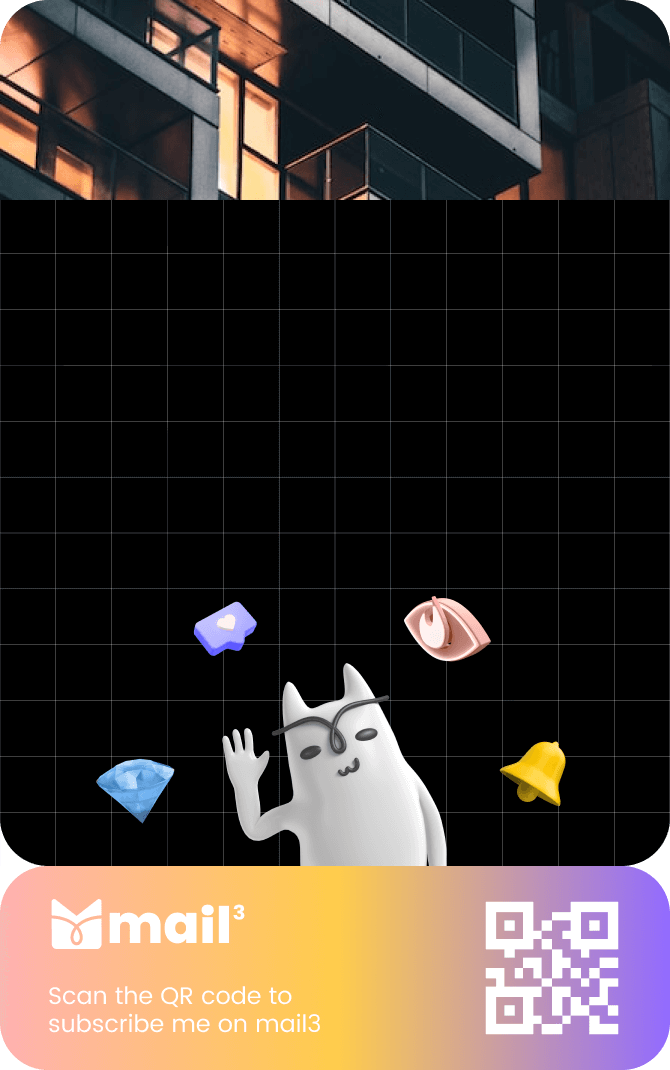
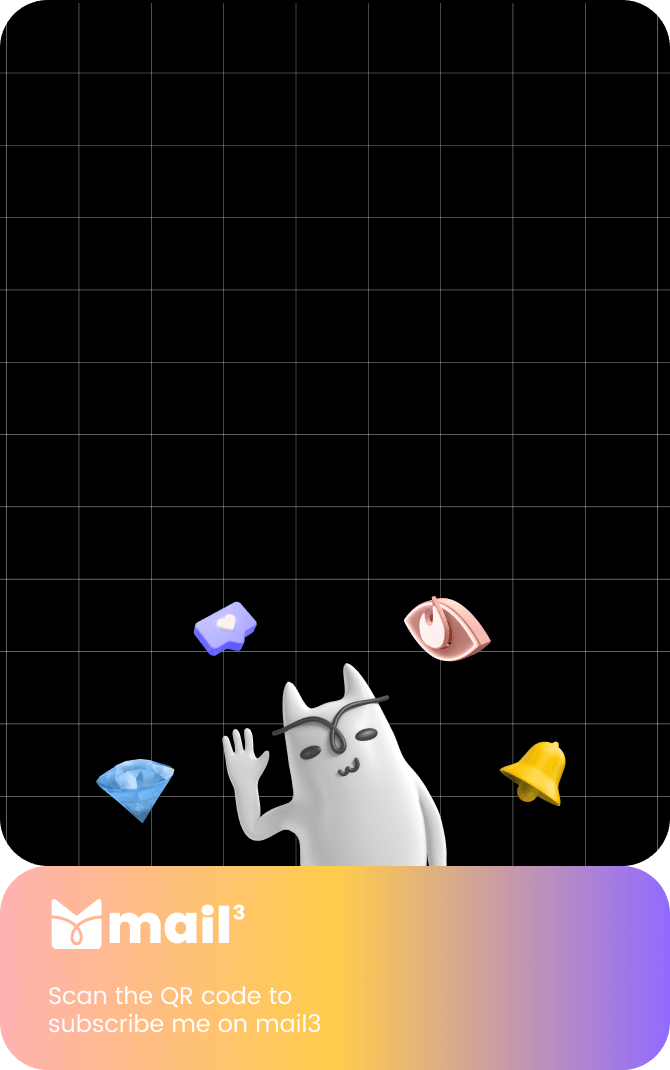
fix: modify subscribe card

diff --git a/apps/community/src/pages/information.tsx b/apps/community/src/pages/information.tsx
@@ -11,7 +11,6 @@ import {
   Heading,
   HStack,
   Icon,
-  Image,
   Input,
   Link,
   Switch,
@@ -120,10 +119,9 @@ export const Information: React.FC = () => {
   const userInfo = useUserInfo()
   const setUserInfo = useSetUserInfo()
   const toast = useToast()
-  const [currentAvatar, setCurrentAvatar] = useState<string | undefined>(
-    undefined
-  )
+
   const [bannerUrl, setBannerUrl] = useState(BannerPng)
+  const [bannerUrlOnline, setBannerUrlOnline] = useState(BannerPng)
   const [description, setDescription] = useState('')
   const [itemsLink, setItemsLink] = useState('')
   const [mmbState, setMmbState] = useState(true)
@@ -135,7 +133,7 @@ export const Information: React.FC = () => {
   const cardRef = useRef<HTMLDivElement>(null)
   const qrcodeRef = useRef<HTMLDivElement>(null)
   const onUpdateTipsPanel = useUpdateTipsPanel()
-  const { takeScreenshot, downloadScreenshot } = useScreenshot()
+  const { downloadScreenshot } = useScreenshot()
 
   const { data: userInfoData } = useQuery(
     [QueryKey.GetUserInfo],
@@ -150,7 +148,7 @@ export const Information: React.FC = () => {
     }
   )
 
-  useQuery(
+  const { isLoading } = useQuery(
     ['userSetting', account],
     async () => {
       const res = await api.getUserSetting()
@@ -164,23 +162,11 @@ export const Information: React.FC = () => {
       onSuccess(d) {
         remoteSettingRef.current = d
         setBannerUrl(d.banner_url || BannerPng)
+        setBannerUrlOnline(d.banner_url || BannerPng)
         setDescription(d.description)
         setItemsLink(d.items_link)
         setMmbState(d.mmb_state === 'enabled')
       },
-    }
-  )
-
-  const { data: profileImage } = useQuery(
-    ['RenderProfileImage', account, currentAvatar],
-    () =>
-      takeScreenshot(cardRef.current!, {
-        scale: 2,
-        width: 335,
-        height: 535,
-      }),
-    {
-      enabled: !!cardRef.current && !!account,
     }
   )
 
@@ -223,6 +209,8 @@ export const Information: React.FC = () => {
     try {
       setIsPublishing(true)
       await api.updateUserSetting(requestBody)
+      remoteSettingRef.current = requestBody
+      setBannerUrlOnline(requestBody.banner_url)
       toast('Publish Successfully', {
         status: 'success',
         alertProps: { colorScheme: 'green' },
@@ -245,7 +233,7 @@ export const Information: React.FC = () => {
       setIsUploading(true)
       try {
         const file = files[0]
-        const isErrorSize = await verifyImageSize(file, 2440 / 2, 480 / 2)
+        const isErrorSize = await verifyImageSize(file, 2440, 480)
         if (!isErrorSize) {
           throw new Error('pixels')
         }
@@ -423,7 +411,7 @@ export const Information: React.FC = () => {
                 w="610px"
                 h="100px"
                 justifyContent="center"
-                bgImage={bannerUrl}
+                bgImage={isLoading ? '' : bannerUrl}
                 bgSize="100% auto"
                 bgRepeat="no-repeat"
                 bgPosition="center"
@@ -512,38 +500,45 @@ export const Information: React.FC = () => {
                     p="16px"
                     flexDirection="column"
                   >
-                    <Flex justify="center" mb="16px" h="165px">
-                      <SubscribeCard
-                        // isDev
-                        mailAddress={
-                          userInfo?.address || `${account}@${MAIL_SERVER_URL}`
-                        }
-                        desc={description}
-                        ref={cardRef}
-                        nickname={truncateAddress(
-                          userInfo?.name ||
-                            userInfoData?.name ||
-                            userInfo?.address.split('@')[0] ||
-                            '',
-                          '_'
-                        )}
-                        onChangeAvatarCallback={setCurrentAvatar}
-                      />
-                      {profileImage ? (
-                        <Image
-                          src={profileImage}
-                          alt="profile_card"
-                          h="full"
-                          w="auto"
-                        />
-                      ) : null}
+                    <Flex justify="center" mb="16px" h="180px">
+                      <Box w="112px" h="180px">
+                        <Box
+                          transform={`scale(${112 / 335})`}
+                          transformOrigin="0 0"
+                        >
+                          <SubscribeCard
+                            isPic
+                            mailAddress={
+                              userInfo?.address ||
+                              `${account}@${MAIL_SERVER_URL}`
+                            }
+                            bannerUrl={bannerUrlOnline}
+                            desc={description}
+                            nickname={truncateAddress(
+                              userInfo?.name ||
+                                userInfoData?.name ||
+                                userInfo?.address.split('@')[0] ||
+                                '',
+                              '_'
+                            )}
+                            qrUrl={`${APP_URL}/subscribe/${loginInfo?.uuid}`}
+                          />
+                        </Box>
+                      </Box>
                     </Flex>
                     <DownloadButton
                       mt="auto"
-                      as="a"
-                      href={profileImage}
-                      download={`profile_card_${account}.png`}
                       onClick={() => {
+                        if (!cardRef.current) return
+                        downloadScreenshot(
+                          cardRef.current,
+                          `profile_card_${account}.png`,
+                          {
+                            width: 335,
+                            height: 535,
+                            scale: 2,
+                          }
+                        )
                         trackClickInformationQRcodeDownload({
                           [TrackKey.CommunityQRcodeStyle]:
                             CommunityQRcodeStyle.Mail3Style,
@@ -700,6 +695,21 @@ export const Information: React.FC = () => {
         </Tabs>
       </Flex>
       <TipsPanel useSharedContent />
+      <SubscribeCard
+        // isDev
+        mailAddress={userInfo?.address || `${account}@${MAIL_SERVER_URL}`}
+        bannerUrl={bannerUrlOnline}
+        desc={description}
+        ref={cardRef}
+        nickname={truncateAddress(
+          userInfo?.name ||
+            userInfoData?.name ||
+            userInfo?.address.split('@')[0] ||
+            '',
+          '_'
+        )}
+        qrUrl={`${APP_URL}/subscribe/${loginInfo?.uuid}`}
+      />
     </Container>
   )
 }

diff --git a/packages/ui/src/SubscribeCard/index.tsx b/packages/ui/src/SubscribeCard/index.tsx
@@ -1,6 +1,7 @@
 import { Box, Text } from '@chakra-ui/react'
 import React, { forwardRef } from 'react'
 import styled from '@emotion/styled'
+import QrCode from 'qrcode.react'
 import { Avatar } from 'ui'
 import classNames from 'classnames'
 
@@ -15,6 +16,8 @@ interface SubscribeProps {
   nickname?: string
   isDev?: boolean
   desc?: string
+  bannerUrl?: string
+  qrUrl: string
   onChangeAvatarCallback?: (currentAvatar?: string) => void
 }
 
@@ -42,11 +45,26 @@ const Container = styled(Box)`
     z-index: 9999;
     position: fixed;
   }
+
+  .qrCode {
+    right: 25px;
+    bottom: 17px;
+    position: absolute;
+  }
 `
 
 export const SubscribeCard = forwardRef<HTMLDivElement, SubscribeProps>(
   (
-    { mailAddress, isPic, isDev, nickname, desc, onChangeAvatarCallback },
+    {
+      mailAddress,
+      isPic,
+      isDev,
+      nickname,
+      desc,
+      onChangeAvatarCallback,
+      bannerUrl,
+      qrUrl,
+    },
     ref
   ) => {
     const address = mailAddress.substring(0, mailAddress.indexOf('@'))
@@ -60,13 +78,28 @@ export const SubscribeCard = forwardRef<HTMLDivElement, SubscribeProps>(
         })}
         color="#fff"
         p="74px 24px"
+        overflow="hidden"
+        rounded="24px"
       >
+        <Box
+          w="100%"
+          h="100px"
+          position="absolute"
+          top="0"
+          left="0"
+          bgImage={bannerUrl}
+          bgRepeat="no-repeat"
+          bgSize="auto 100%"
+          bgPosition="center"
+        />
         <Avatar
           address={address}
           w="60px"
           h="60px"
           borderRadius="50%"
           onChangeAvatarCallback={onChangeAvatarCallback}
+          position="relative"
+          zIndex="2"
         />
         <Text fontWeight="700" fontSize="20px" lineHeight="28px" mb="4px">
           {nickname}
@@ -78,6 +111,10 @@ export const SubscribeCard = forwardRef<HTMLDivElement, SubscribeProps>(
 
         <Box fontWeight="600" fontSize="14px" lineHeight="20px" mt="16px">
           {desc}
+        </Box>
+
+        <Box className="qrCode">
+          <QrCode value={qrUrl} size={66} />
         </Box>
       </Container>
     )

diff --git a/apps/home/components/SubscribePage/index.tsx b/apps/home/components/SubscribePage/index.tsx
@@ -678,6 +678,8 @@ export const SubscribePage: React.FC<SubscribePageProps> = ({
 
       <SubscribeCard
         // isDev
+        bannerUrl={settings?.banner_url}
+        qrUrl={`${APP_URL}/subscribe/${uuid}`}
         mailAddress={mailAddress}
         desc={settings?.description}
         ref={cardRef}
